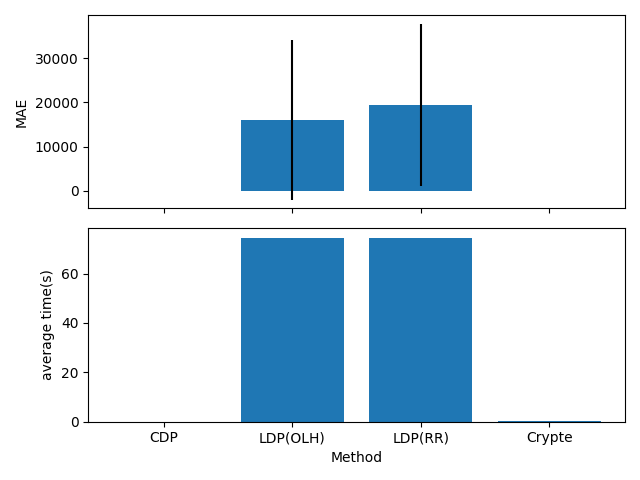
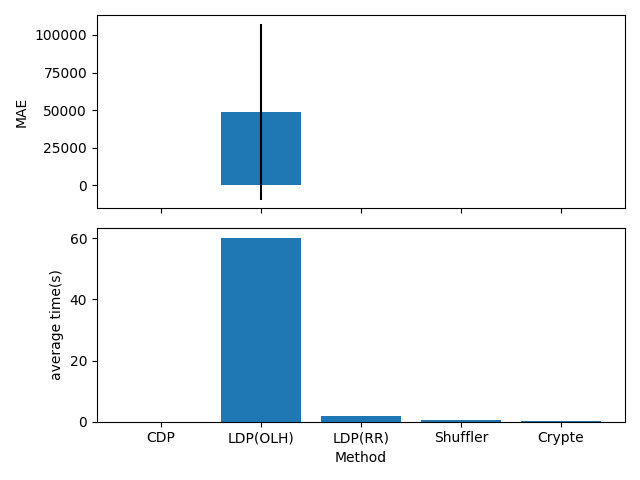
update test

diff --git a/test.py b/test.py
@@ -1,6 +1,7 @@
 import pandas as pd
 import CDP
 import LDP
+import Shuffler
 from crypte_test import CrypteTest
 import time
 import numpy as np
@@ -19,25 +20,38 @@ def encode_and_bind(original_dataframe, feature_to_encode):
     return res, num_cols
 
 
-def print_result(num_iters, true_answer, cdp_res, cdp_time, olh_res, olh_time, rr_res, rr_time, crypte_res,
-                 crypte_time):
+def print_result(num_iters, true_answer,
+                 cdp_res, cdp_time,
+                 olh_res, olh_time,
+                 rr_res, rr_time,
+                 shuffler_res, shuffler_time,
+                 crypte_res, crypte_time):
     print("Method: MAE, STD, Avg time(s)")
     print("CDP: ", mean_absolute_error(true_answer, cdp_res), np.std(cdp_res), cdp_time / num_iters)
     print("LDP(OLH): ", mean_absolute_error(true_answer, olh_res), np.std(olh_res), olh_time / num_iters)
     print("LDP(RR): ", mean_absolute_error(true_answer, rr_res), np.std(rr_res), rr_time / num_iters)
+    print("Shuffler: ", mean_absolute_error(true_answer, shuffler_res), np.std(shuffler_res), shuffler_time / num_iters)
     print("Crypte: ", mean_absolute_error(true_answer, crypte_res), np.std(crypte_res), crypte_time / num_iters)
 
 
-def plot_result(num_iters, true_answer, cdp_res, cdp_time, olh_res, olh_time, rr_res, rr_time, crypte_res,
-                crypte_time, fig_name):
+def plot_result(num_iters, true_answer,
+                cdp_res, cdp_time,
+                olh_res, olh_time,
+                rr_res, rr_time,
+                shuffler_res, shuffler_time,
+                crypte_res, crypte_time,
+                fig_name):
     fig, (ax1, ax2) = plt.subplots(2, sharex=True)
 
-    x = ['CDP', 'LDP(OLH)', 'LDP(RR)', 'Crypte']
+    x = ['CDP', 'LDP(OLH)', 'LDP(RR)', 'Shuffler', 'Crypte']
     x_pos = np.arange(len(x))
 
-    mae = [mean_absolute_error(true_answer, cdp_res), mean_absolute_error(true_answer, olh_res),
-           mean_absolute_error(true_answer, rr_res), mean_absolute_error(true_answer, crypte_res)]
-    std = [np.std(cdp_res), np.std(olh_res), np.std(rr_res), np.std(crypte_res)]
+    mae = [mean_absolute_error(true_answer, cdp_res),
+           mean_absolute_error(true_answer, olh_res),
+           mean_absolute_error(true_answer, rr_res),
+           mean_absolute_error(true_answer, shuffler_res),
+           mean_absolute_error(true_answer, crypte_res)]
+    std = [np.std(cdp_res), np.std(olh_res), np.std(rr_res), np.std(shuffler_res), np.std(crypte_res)]
 
     ax1.bar(x_pos, mae, yerr=std)
     # ax1.xlabel("Method")
@@ -45,7 +59,11 @@ def plot_result(num_iters, true_answer, cdp_res, cdp_time, olh_res, olh_time, rr
     # ax1.title("MAE")
     # ax1.xticks(x_pos, x)
 
-    time = [cdp_time / num_iters, olh_time / num_iters, rr_time / num_iters, crypte_time / num_iters]
+    time = [cdp_time / num_iters,
+            olh_time / num_iters,
+            rr_time / num_iters,
+            shuffler_time / num_iters,
+            crypte_time / num_iters]
     ax2.bar(x_pos, time)
     ax2.set_xlabel("Method")
     ax2.set_ylabel("average time(s)")
@@ -84,9 +102,14 @@ if __name__ == '__main__':
     elapsed = time.time() - start
     print("time inserting vector to crypte: " + str(elapsed))
 
+    olh = LDP.OLH(array=df["age"].to_numpy(copy=True), epsilon=epsilon)
+    rr = LDP.RR(array=df["age"].to_numpy(copy=True), epsilon=epsilon)
+    shuffler = Shuffler.PrivacyBlanket(array=df["age"].to_numpy(copy=True), epsilon_c=epsilon, delta=10e-10)
+
     cdp_res, cdp_time = np.zeros(num_iters), 0
     olh_res, olh_time = np.zeros(num_iters), 0
     rr_res, rr_time = np.zeros(num_iters), 0
+    shuffler_res, shuffler_time = np.zeros(num_iters), 0
     crypte_res, crypte_time = np.zeros(num_iters), 0
 
     print("\nidentity: COUNT(age)")
@@ -96,18 +119,25 @@ if __name__ == '__main__':
 
     for i in range(num_iters):
         start = time.time()
-        cdp_res[i] = CDP.count(df["age"], epsilon)
+        cdp_res[i] = CDP.count(df["age"].to_numpy(copy=True), epsilon)
         cdp_time += (time.time() - start)
 
         start = time.time()
-        olh = LDP.OLH(array=df["age"], epsilon=epsilon)
+        # olh = LDP.OLH(array=df["age"], epsilon=epsilon)
         olh_res[i] = olh.count()
         olh_time += (time.time() - start)
 
         start = time.time()
-        rr = LDP.RR(array=df["age"], epsilon=epsilon)
-        rr_res[i] = olh.count()
+        # rr = LDP.RR(array=df["age"], epsilon=epsilon)
+        rr_res[i] = rr.count()
+        # print(rr_res[i])
         rr_time += (time.time() - start)
+
+        start = time.time()
+        # shuffler = Shuffler.PrivacyBlanket(array=df["age"], epsilon_c=epsilon, delta=10e-6)
+        shuffler_res[i] = shuffler.count()
+        # print(shuffler_res[i])
+        shuffler_time += (time.time() - start)
 
         start = time.time()
         crypte_res[i] = crypte.count(attr_num=1, start=1, end=crypte_attrs[0])
@@ -117,13 +147,24 @@ if __name__ == '__main__':
         # print("LDP: ", LDP.count(df["age"], epsilon))
         # print("Crypte: ", crypte.count(attr_num=1, start=1, end=crypte_attrs[0]))\
 
-    print_result(num_iters, true_answer, cdp_res, cdp_time, olh_res, olh_time, rr_res, rr_time, crypte_res, crypte_time)
-    plot_result(num_iters, true_answer, cdp_res, cdp_time, olh_res, olh_time, rr_res, rr_time, crypte_res,
-                crypte_time, "identity")
+    print_result(num_iters, true_answer,
+                 cdp_res, cdp_time,
+                 olh_res, olh_time,
+                 rr_res, rr_time,
+                 shuffler_res, shuffler_time,
+                 crypte_res, crypte_time)
+    plot_result(num_iters, true_answer,
+                cdp_res, cdp_time,
+                olh_res, olh_time,
+                rr_res, rr_time,
+                shuffler_res, shuffler_time,
+                crypte_res, crypte_time,
+                "identity")
 
     cdp_res, cdp_time = np.zeros(num_iters), 0
     olh_res, olh_time = np.zeros(num_iters), 0
     rr_res, rr_time = np.zeros(num_iters), 0
+    shuffler_res, shuffler_time = np.zeros(num_iters), 0
     crypte_res, crypte_time = np.zeros(num_iters), 0
 
     print("\nrange(over a single attribute): COUNT(20 <= age <= 30)")
@@ -137,14 +178,19 @@ if __name__ == '__main__':
         cdp_time += (time.time() - start)
 
         start = time.time()
-        olh = LDP.OLH(array=df["age"], epsilon=epsilon)
+        # olh = LDP.OLH(array=df["age"], epsilon=epsilon)
         olh_res[i] = olh.count_in_range(20, 30)
         olh_time += (time.time() - start)
 
         start = time.time()
-        rr = LDP.RR(array=df["age"], epsilon=epsilon)
-        rr_res[i] = olh.count_in_range(20, 30)
+        # rr = LDP.RR(array=df["age"], epsilon=epsilon)
+        rr_res[i] = rr.count_in_range(20, 30)
         rr_time += (time.time() - start)
+
+        start = time.time()
+        # shuffler = Shuffler.PrivacyBlanket(array=df["age"], epsilon_c=epsilon, delta=10e-6)
+        shuffler_res[i] = shuffler.count_in_range(20, 30)
+        shuffler_time += (time.time() - start)
 
         start = time.time()
         col_list = df_one_hot_sum.columns.tolist()
@@ -157,6 +203,72 @@ if __name__ == '__main__':
         # print("LDP: ", LDP.count_in_range(df["age"], 20, 30, epsilon))
         # print("crypte: ", crypte.count(attr_num=1, start=start_pos, end=end_pos)))
 
-    print_result(num_iters, true_answer, cdp_res, cdp_time, olh_res, olh_time, rr_res, rr_time, crypte_res, crypte_time)
-    plot_result(num_iters, true_answer, cdp_res, cdp_time, olh_res, olh_time, rr_res, rr_time, crypte_res,
-                crypte_time, "range")
+    print_result(num_iters, true_answer,
+                 cdp_res, cdp_time,
+                 olh_res, olh_time,
+                 rr_res, rr_time,
+                 shuffler_res, shuffler_time,
+                 crypte_res, crypte_time)
+    plot_result(num_iters, true_answer,
+                cdp_res, cdp_time,
+                olh_res, olh_time,
+                rr_res, rr_time,
+                shuffler_res, shuffler_time,
+                crypte_res, crypte_time,
+                "range")
+
+    cdp_res, cdp_time = np.zeros(num_iters), 0
+    olh_res, olh_time = np.zeros(num_iters), 0
+    rr_res, rr_time = np.zeros(num_iters), 0
+    shuffler_res, shuffler_time = np.zeros(num_iters), 0
+    crypte_res, crypte_time = np.zeros(num_iters), 0
+
+    print("\npoint query: COUNT(age = 50)")
+    answer = df['age'].value_counts()[50]
+    print("original: ", answer)
+    true_answer = np.full(num_iters, answer)
+
+    for i in range(num_iters):
+        start = time.time()
+        cdp_res[i] = CDP.count(df[df.age == 50], epsilon)
+        cdp_time += (time.time() - start)
+
+        start = time.time()
+        # olh = LDP.OLH(array=df["age"], epsilon=epsilon)
+        olh_res[i] = olh.count_in_range(50, 50)
+        olh_time += (time.time() - start)
+
+        start = time.time()
+        # rr = LDP.RR(array=df["age"], epsilon=epsilon)
+        rr_res[i] = rr.count_in_range(50, 50)
+        rr_time += (time.time() - start)
+
+        start = time.time()
+        # shuffler = Shuffler.PrivacyBlanket(array=df["age"], epsilon_c=epsilon, delta=10e-6)
+        shuffler_res[i] = shuffler.count_in_range(50, 50)
+        shuffler_time += (time.time() - start)
+
+        start = time.time()
+        col_list = df_one_hot_sum.columns.tolist()
+        start_pos = col_list.index("age_50") + 1
+        end_pos = col_list.index("age_50") + 1
+        crypte_res[i] = crypte.count(attr_num=1, start=start_pos, end=end_pos)
+        crypte_time += (time.time() - start)
+
+        # print("CDP: ", CDP.count(df["age"][df["age"].between(20, 30)], epsilon))
+        # print("LDP: ", LDP.count_in_range(df["age"], 20, 30, epsilon))
+        # print("crypte: ", crypte.count(attr_num=1, start=start_pos, end=end_pos)))
+
+    print_result(num_iters, true_answer,
+                 cdp_res, cdp_time,
+                 olh_res, olh_time,
+                 rr_res, rr_time,
+                 shuffler_res, shuffler_time,
+                 crypte_res, crypte_time)
+    plot_result(num_iters, true_answer,
+                cdp_res, cdp_time,
+                olh_res, olh_time,
+                rr_res, rr_time,
+                shuffler_res, shuffler_time,
+                crypte_res, crypte_time,
+                "frequency")
